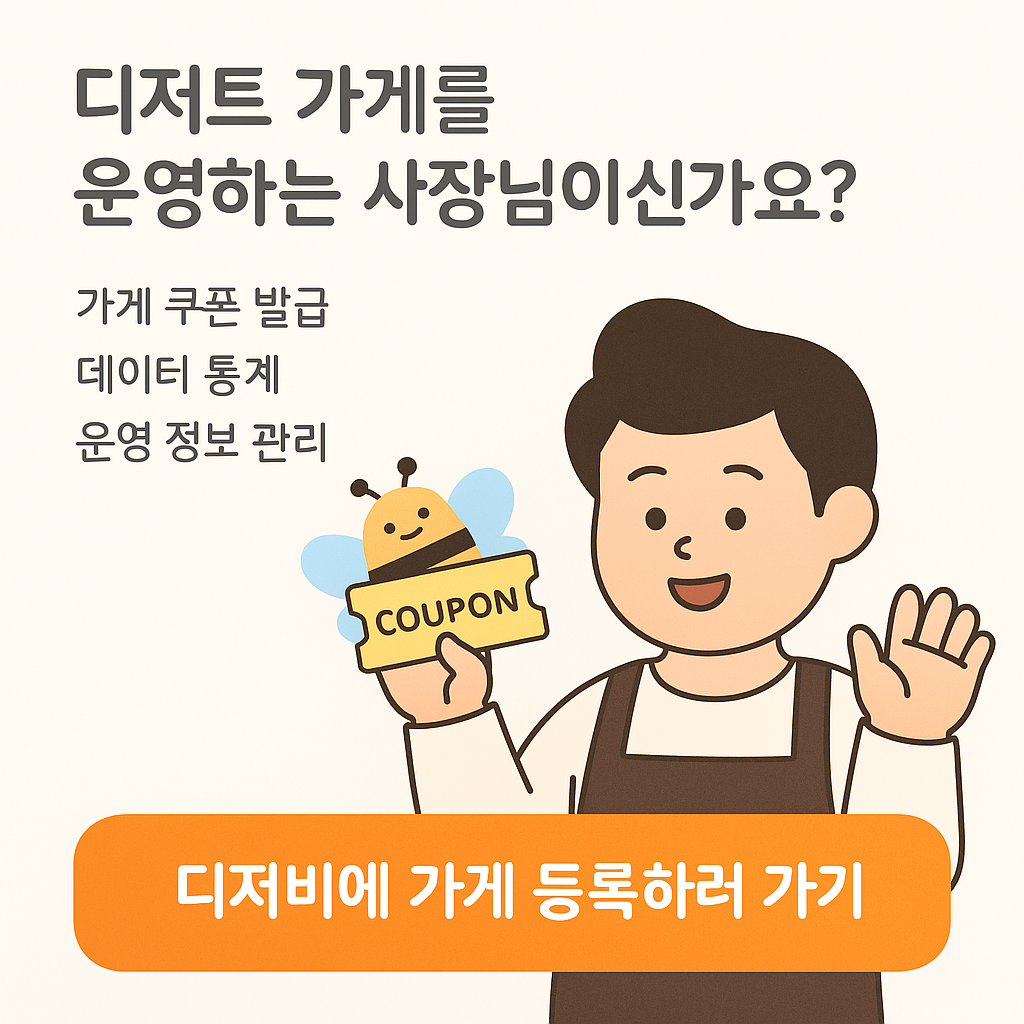
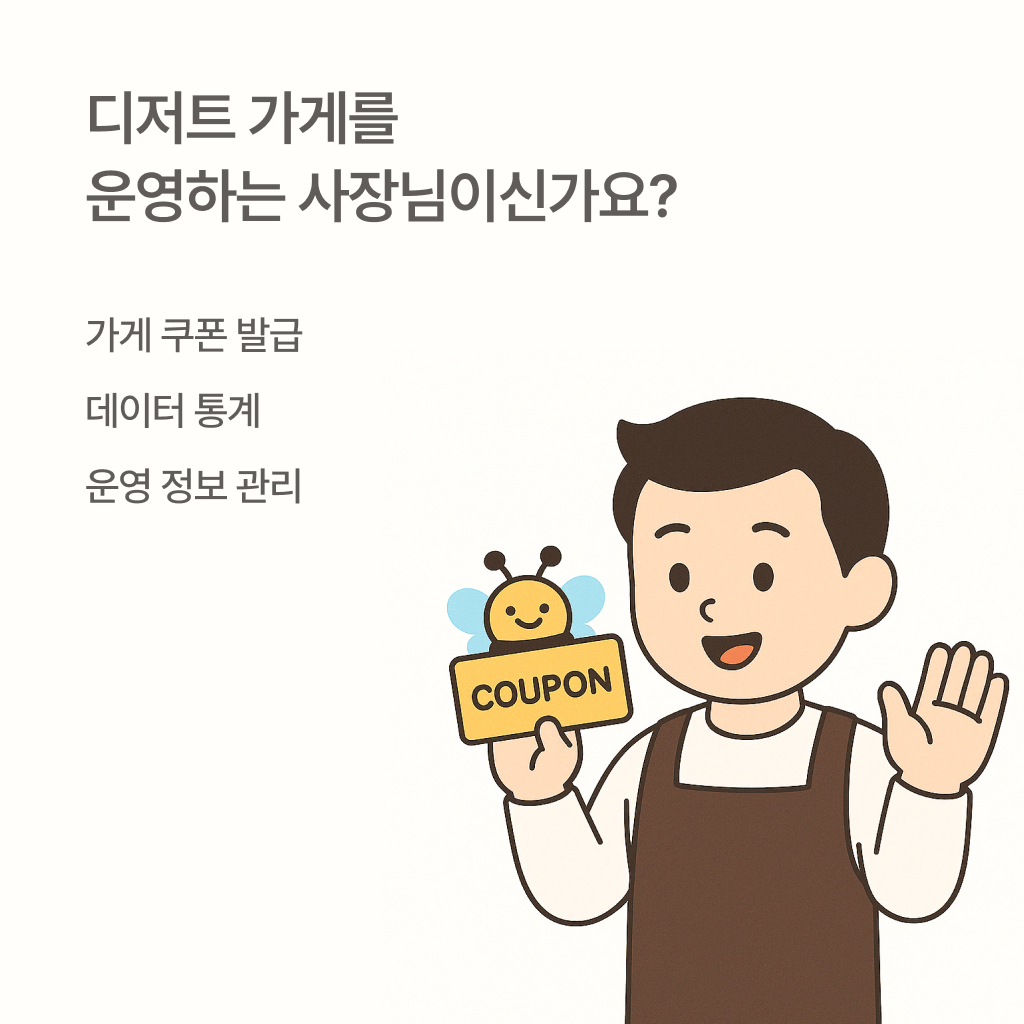
[desserbee-web] 지도 페이지 가게 등록 팝업 수정 (#219)
* feat: 지도 페이지 가게등록팝업 오늘 하루 다신 보지 않기 체크박스 추가 및 디자인 수정

* fix: 로그인 페이지 헤더 width 수정

* fix: map 페이지 팝업 수정

diff --git a/apps/desserbee-web/src/app/[lang]/(user)/(with-navigation-bar)/map/_modals/GoOwnerPageModal/index.tsx b/apps/desserbee-web/src/app/[lang]/(user)/(with-navigation-bar)/map/_modals/GoOwnerPageModal/index.tsx
@@ -1,0 +1,82 @@
+'use client';
+
+import ownerPopupImage from '@/assets/images/owner-popup.png';
+import IconXRound from '@repo/design-system/components/icons/IconXRound';
+import { NavigationPathname } from '@repo/entity/src/navigation';
+
+import Image from 'next/image';
+import { useRouter } from 'next/navigation';
+import { useState, useEffect } from 'react';
+
+export function GoOwnerPageModal() {
+  const router = useRouter();
+  const [isOpen, setIsOpen] = useState(true);
+  const [isLoading, setIsLoading] = useState(true);
+
+  useEffect(() => {
+    const hideUntil = localStorage.getItem('hideOwnerModalUntil');
+    if (hideUntil && new Date().getTime() < parseInt(hideUntil)) {
+      setIsOpen(false);
+    }
+    setIsLoading(false);
+  }, []);
+
+  if (isLoading || !isOpen) return null;
+
+  const handleGoOwnerPageButtonClick = () => {
+    router.push(NavigationPathname.Owner);
+  };
+
+  const handleNotTodayClick = (e: React.ChangeEvent<HTMLInputElement>) => {
+    if (e.target.checked) {
+      const tomorrow = new Date();
+      tomorrow.setHours(24, 0, 0, 0);
+      localStorage.setItem(
+        'hideOwnerModalUntil',
+        tomorrow.getTime().toString(),
+      );
+      setIsOpen(false);
+    }
+  };
+
+  return (
+    <div className="z-modal fixed inset-0 flex items-center justify-center bg-transparent">
+      <div className="relative h-[200px] w-[200px] shadow-md md:h-[300px] md:w-[300px]">
+        <Image
+          src={ownerPopupImage}
+          alt="owner-popup-img"
+          fill
+          className="rounded-t-md object-cover"
+        />
+        <button
+          onClick={() => setIsOpen(false)}
+          className="z-modal absolute right-3 top-3 h-4 w-4 md:right-4 md:top-4 md:h-5 md:w-5"
+        >
+          <IconXRound className="text-neutral-30 h-full w-full" />
+        </button>
+        <div className="z-modal absolute bottom-2 right-1/2 flex w-full translate-x-1/2 flex-col items-center justify-center gap-1 md:bottom-4">
+          <button
+            className="h-[30px] w-[calc(100%-32px)] cursor-pointer rounded-[60px] bg-[#F28627] text-xs font-medium text-white md:h-[48px] md:text-lg"
+            onClick={handleGoOwnerPageButtonClick}
+          >
+            디저비에 가게 등록하러 가기
+          </button>
+        </div>
+        <button className="z-modal absolute -bottom-2 flex w-full items-center gap-1 rounded-b-md bg-white pl-1 md:-bottom-4">
+          <input
+            type="checkbox"
+            id="not-today"
+            className="h-2 w-2 md:h-[11px] md:w-[11px]"
+            onChange={handleNotTodayClick}
+          />
+          <label
+            htmlFor="not-today"
+            className="text-neutral-40 w-full cursor-pointer text-start text-[8px] md:text-[11px]"
+          >
+            오늘 하루 다신 보지 않기
+          </label>
+        </button>
+      </div>
+    </div>
+  );
+}

diff --git a/packages/infrastructures/src/repositories/storeAPIRepository.ts b/packages/infrastructures/src/repositories/storeAPIRepository.ts
@@ -220,30 +220,6 @@ export default class StoreAPIRepository
     return response;
   }
 
-  // async registerStore({
-  //   authorization,
-  //   data,
-  // }: BaseRequestData<RegisterStoreRequest>): Promise<RegisterStoreResponse> {
-  //   if (!data) {
-  //     throw Error('data required');
-  //   }
-  //   const url = `${this.endpoint}/stores`;
-
-  //   const response = await fetch<RegisterStoreRequest, RegisterStoreResponse>({
-  //     ...(authorization && {
-  //       headers: {
-  //         Authorization: authorization,
-  //         'Content-Type': 'multipart/form-data',
-  //       },
-  //     }),
-  //     data,
-  //     method: 'POST',
-  //     url,
-  //   });
-
-  //   return response;
-  // }
-
   async registerStore({
     authorization,
     data,

diff --git a/apps/desserbee-web/src/app/[lang]/(user)/(with-navigation-bar)/map/page.tsx b/apps/desserbee-web/src/app/[lang]/(user)/(with-navigation-bar)/map/page.tsx
@@ -4,7 +4,7 @@ import { BannerCarousel } from './_components/BannerCarousel';
 import StoreService from '@repo/usecase/src/storeService';
 import StoreAPIReopository from '@repo/infrastructures/src/repositories/storeAPIRepository';
 import NotFound from '@/app/[lang]/[...not-found]/page';
-import { GoOwnerPageModal } from './_components/GoOwnerPageModal';
+import { GoOwnerPageModal } from './_modals/GoOwnerPageModal';
 
 export default async function MapPage() {
   const storeService = new StoreService({

diff --git a/apps/desserbee-web/src/app/[lang]/(auth)/(sign)/layout.tsx b/apps/desserbee-web/src/app/[lang]/(auth)/(sign)/layout.tsx
@@ -9,7 +9,7 @@ export default async function SignLayout({ children }: WithChildren) {
   return (
     <MobileScreenProvider>
       <div className="flex max-h-screen min-h-screen flex-col overflow-y-scroll bg-white">
-        <div className="fixed top-0 w-full">
+        <div className="fixed top-0 w-full max-w-screen-md">
           <Header
             title="디저비"
             fontClass={recipeKorea.className}

diff --git a/packages/usecase/src/storeService.ts b/packages/usecase/src/storeService.ts
@@ -215,7 +215,7 @@ export default class StoreService {
       authorization,
     };
 
-    const response = await this.storeRepository.registerStore(requestData);
+    await this.storeRepository.registerStore(requestData);
   }
 
   async editStore(params: EditStoreRequest): Promise<EditStoreResponse> {

diff --git a/apps/desserbee-web/src/middleware.ts b/apps/desserbee-web/src/middleware.ts
@@ -82,6 +82,7 @@ async function handleTokens(
 
       // tokenInfo.exp는 밀리초 단위이므로 초 단위로 변환
       const maxAgeInSeconds = Math.floor((tokenInfo.exp ?? 0) / 1000);
+      
 
       response.cookies.set('accessToken', tokenInfo.token, {
         httpOnly: true,
